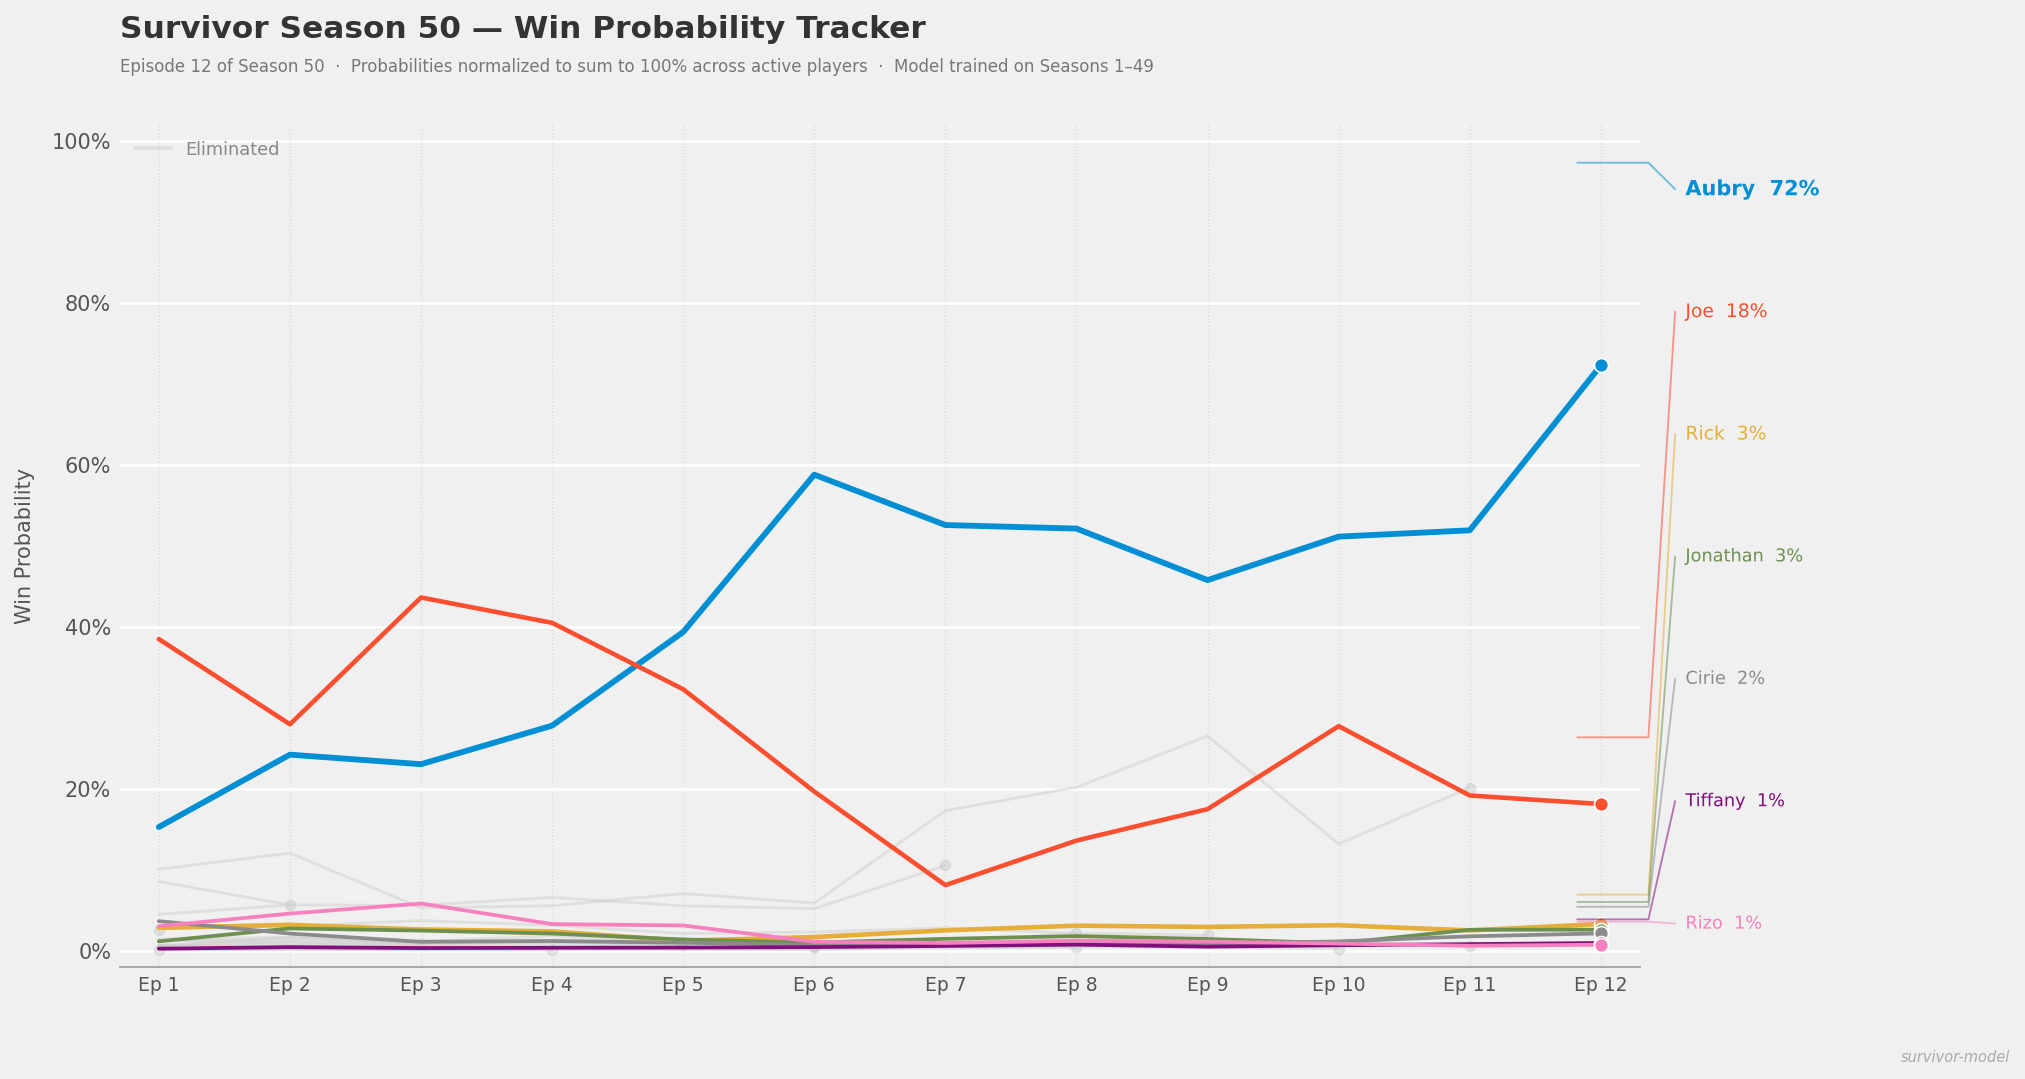
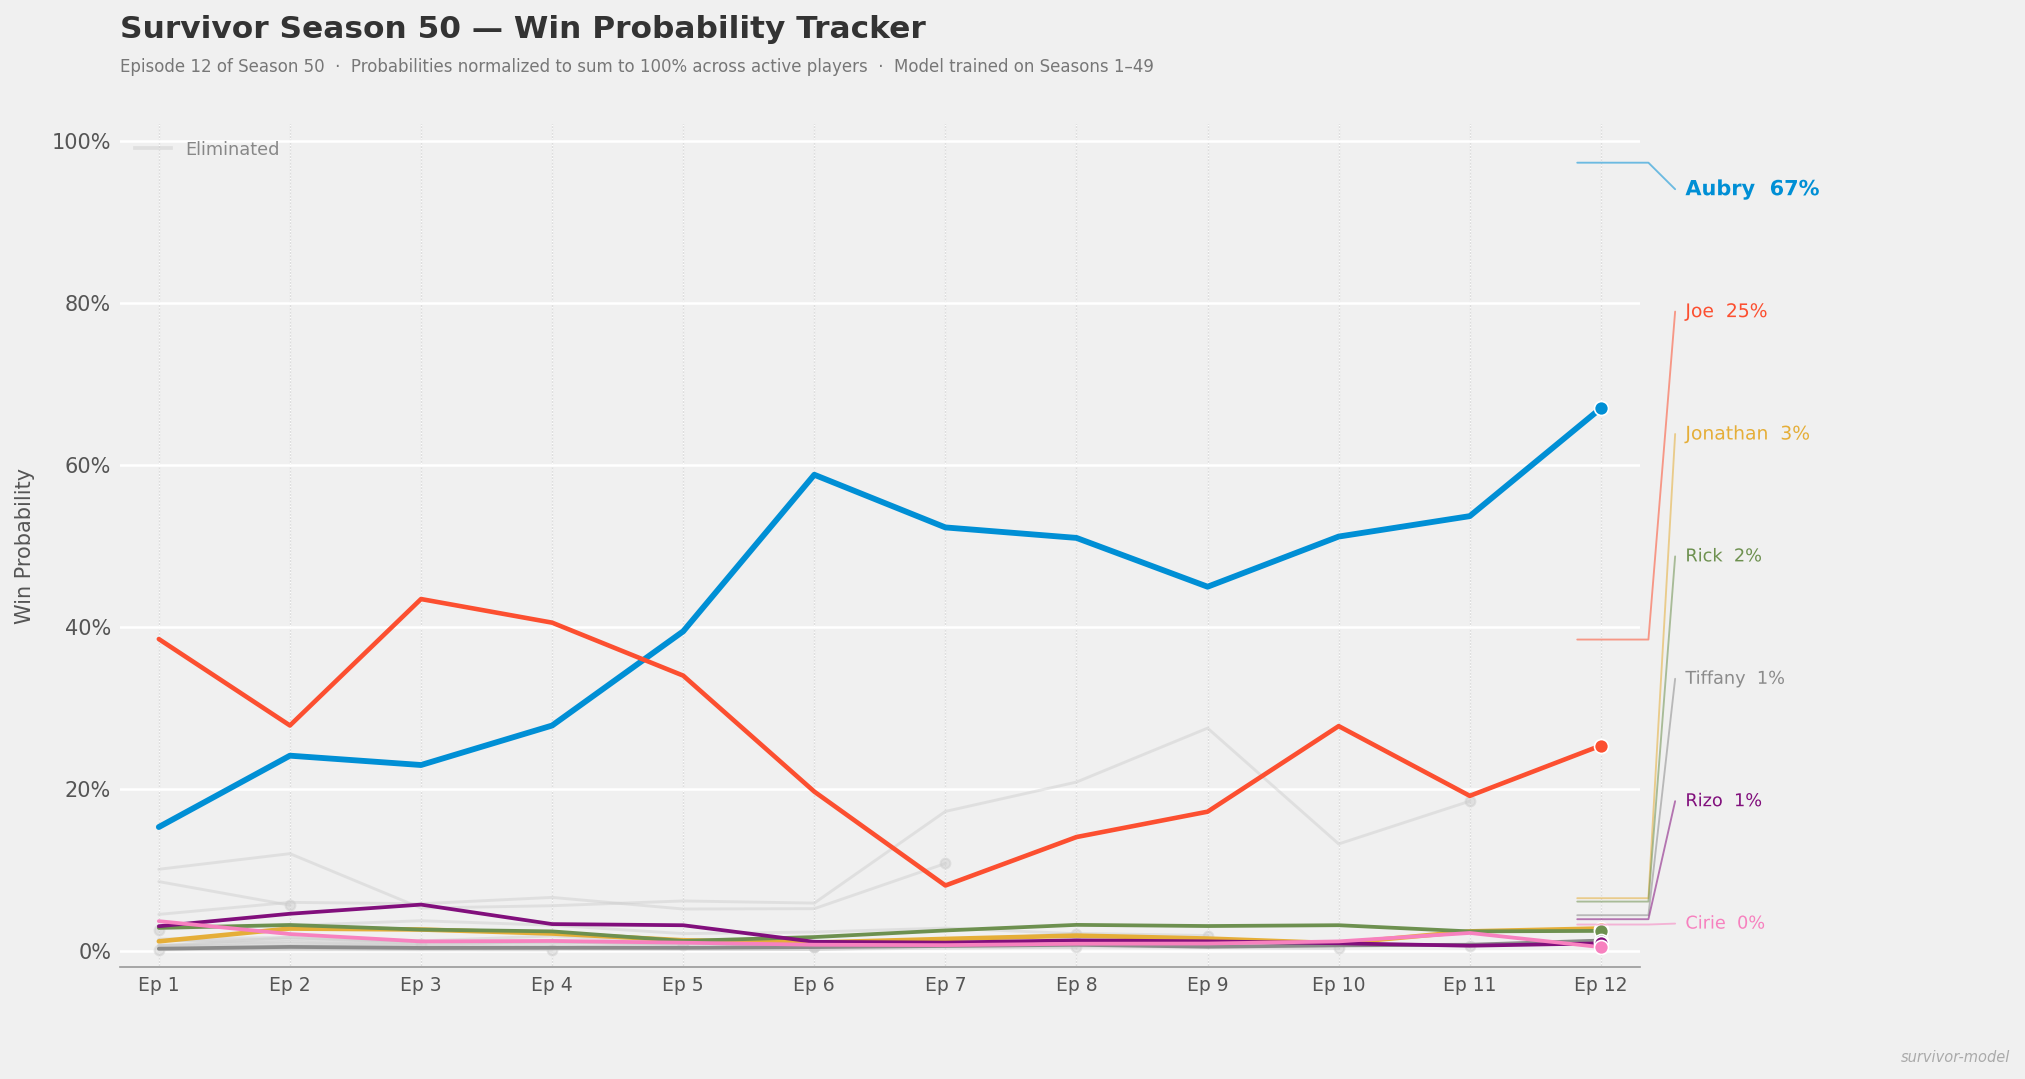
Refresh Season 50 predictions and trajectory plot from updated survivoR data
Downloads latest .rda files from the survivoR GitHub package and re-runs
the prediction pipeline through Episode 12. Also fixes a bug in
build_prediction_snapshots that skipped _dedup_boot_map, causing duplicate
boot_mapping rows to explode into a Cartesian product during feature merges.

https://claude.ai/code/session_01GNX4JhrFfea1pcJvEENGBY

diff --git a/src/features.py b/src/features.py
@@ -748,7 +748,7 @@ def build_prediction_snapshots(dfs, current_season=50):
     Build feature rows for the current (in-progress) season's active players.
     Returns the most-recent-episode snapshot for each active player.
     """
-    bm = _us(dfs['boot_mapping'])
+    bm = _dedup_boot_map(_us(dfs['boot_mapping']))
     current = bm[bm['season'] == current_season]
     latest_ep = current['episode'].max()
 
